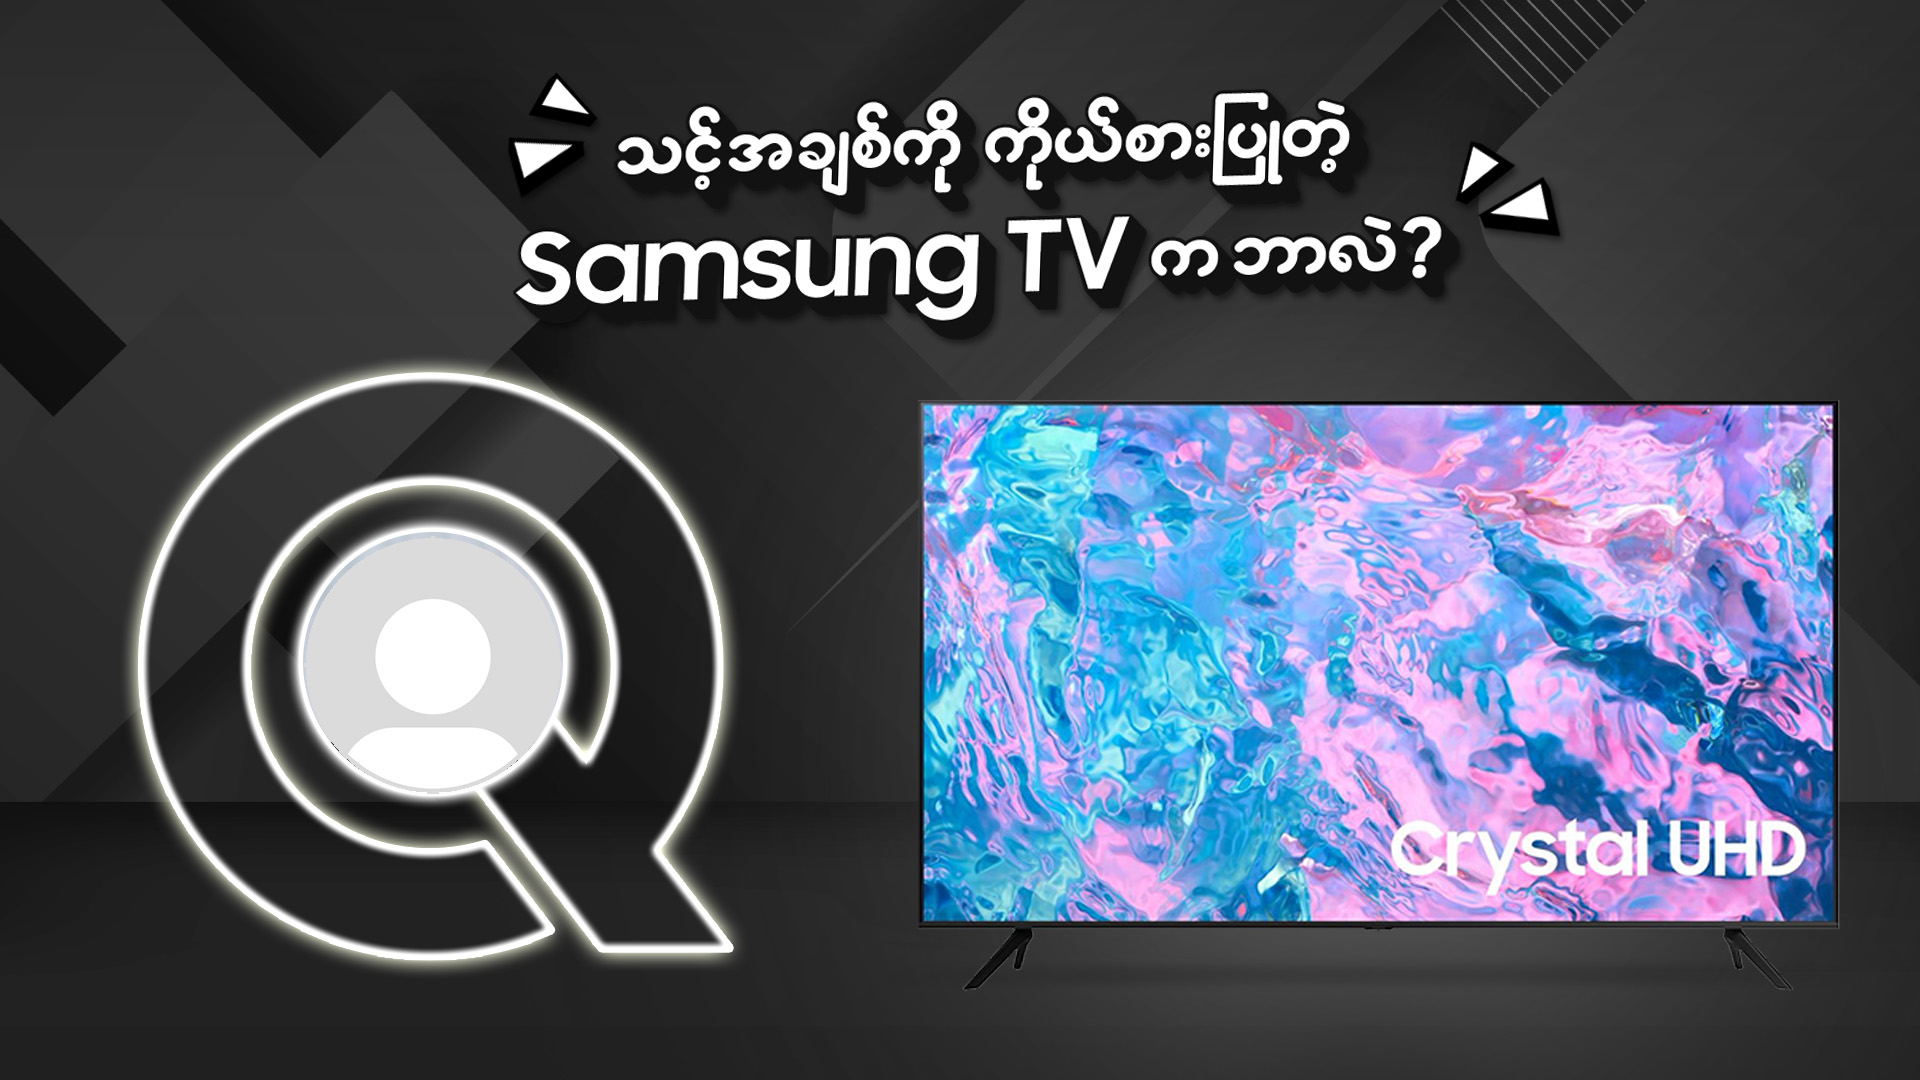
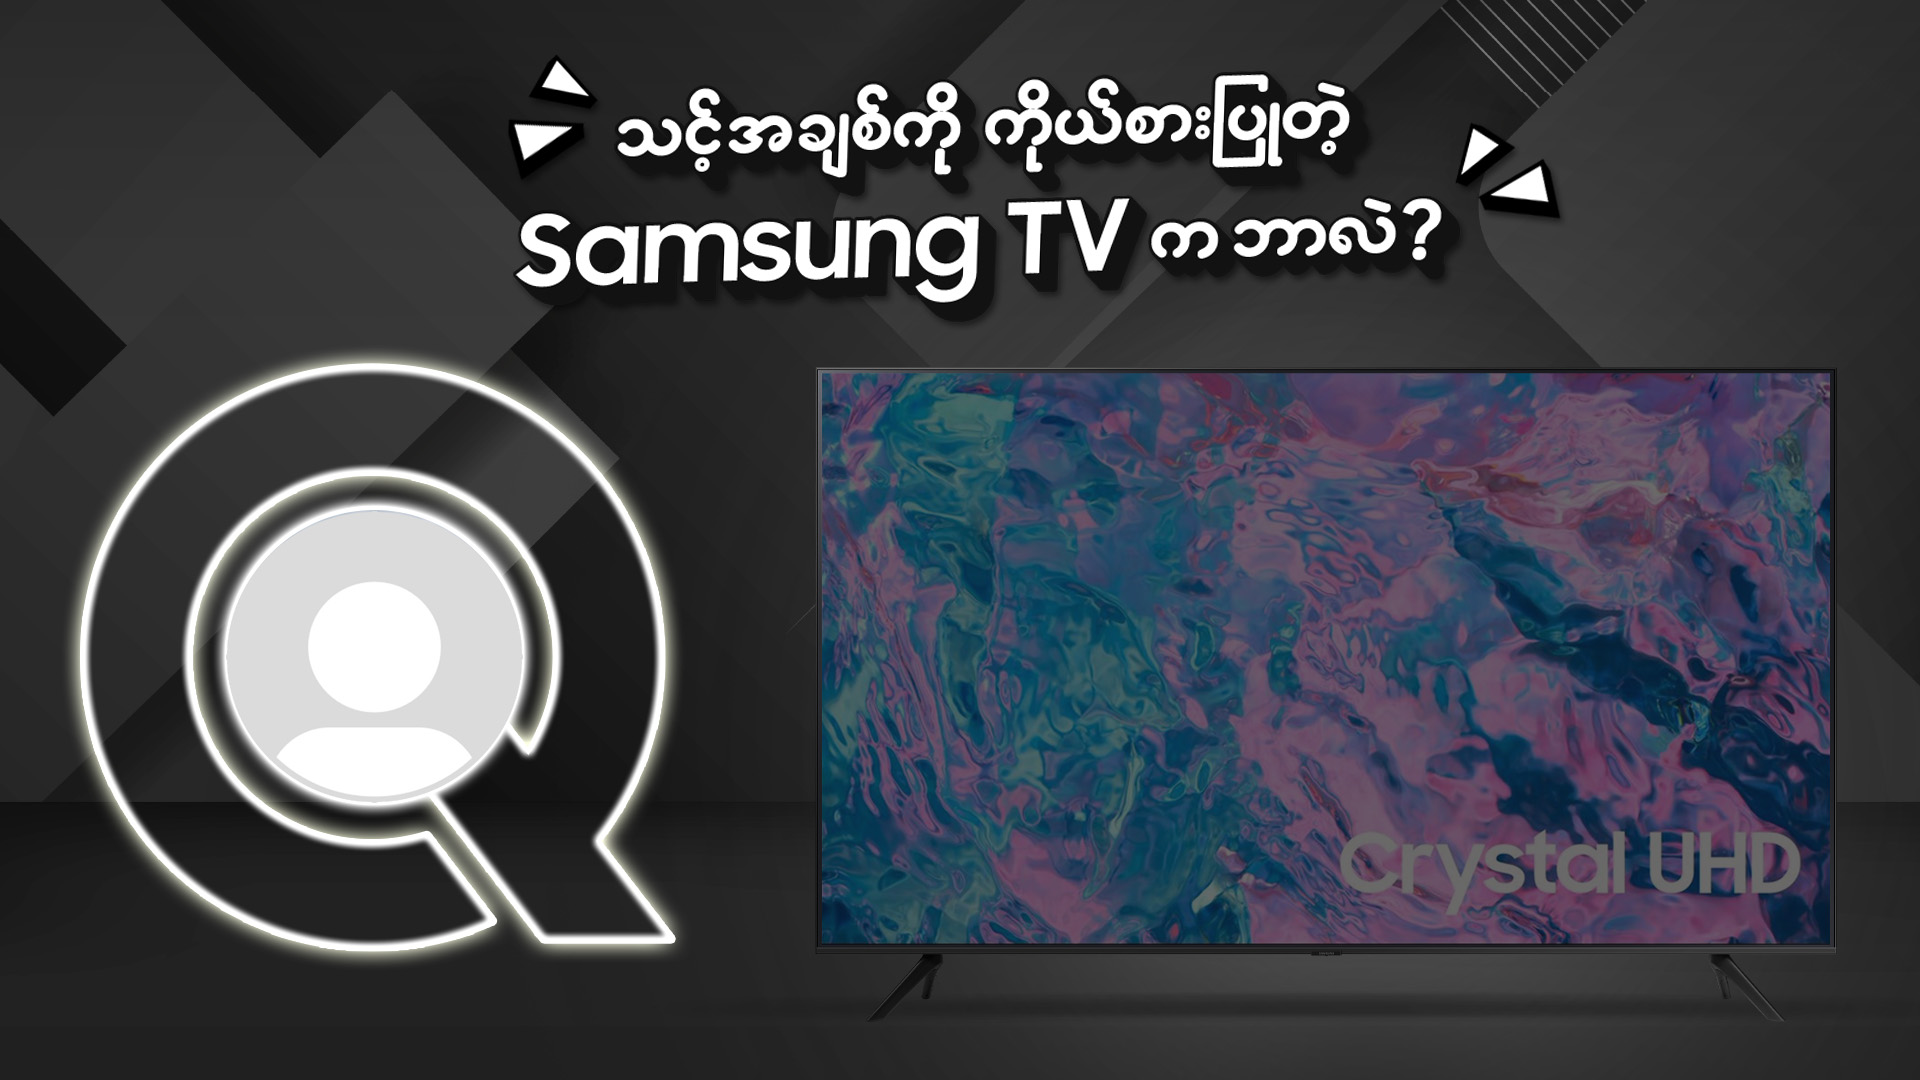
finish multiple tv

diff --git a/app/Http/Controllers/FacebookController.php b/app/Http/Controllers/FacebookController.php
@@ -170,7 +170,7 @@ class FacebookController extends Controller
             $avatarMask = $imageManager->make(public_path('samsung_support_photos/mask.png'));
 
             // // fit
-            $avatarImage->fit(255, 255);
+            $avatarImage->fit(292, 292);
             $avatarImage->mask($avatarMask, true);
 
             $data = config('samsung');
@@ -179,7 +179,7 @@ class FacebookController extends Controller
 
             $backgroundImage = $imageManager->make(public_path($randomData['tv_location']));
 
-            $backgroundImage->insert($avatarImage, 'top-left', 305, 535);
+            $backgroundImage->insert($avatarImage, 'top-left', 228, 512);
 
             $detector = new ZawgyiDetector();
 
@@ -209,33 +209,33 @@ class FacebookController extends Controller
                 'photo' => $imageName
             ]);
 
-            $backgroundImage->text($firstTitle, 950, 450, function ($font) use ($randomData) {
-                $font->file(public_path('Zawgyi-One.ttf'));
+            $backgroundImage->text($firstTitle, 850, 450, function ($font) use ($randomData) {
+                $font->file(public_path('MyanmarSangamZawgyi-Bold.ttf'));
                 $font->color($randomData['text_color']);
-                $font->size(38);
+                $font->size(50);
             });
 
-            $backgroundImage->text($secondTitle, 950, 510, function ($font) use ($randomData) {
-                $font->file(public_path('Zawgyi-One.ttf'));
+            $backgroundImage->text($secondTitle, 850, 510, function ($font) use ($randomData) {
+                $font->file(public_path('MyanmarSangamZawgyi-Bold.ttf'));
                 $font->color($randomData['text_color']);
-                $font->size(38);
+                $font->size(50);
             });
 
-            $backgroundImage->text($thirdTitle, 950, 570, function ($font) use ($randomData) {
-                $font->file(public_path('Zawgyi-One.ttf'));
+            $backgroundImage->text($thirdTitle, 850, 570, function ($font) use ($randomData) {
+                $font->file(public_path('MyanmarSangamZawgyi-Bold.ttf'));
                 $font->color($randomData['text_color']);
-                $font->size(38);
+                $font->size(50);
             });
 
-            $x = 950;
+            $x = 850;
             $y = 600;
 
             foreach (Arr::flatten($randomData['tv_sub_title']) as $eachText) {
                 $y += 60;
                 $backgroundImage->text(Rabbit::uni2zg($eachText), $x, $y, function ($font) use ($randomData) {
-                    $font->file(public_path('Zawgyi-One.ttf'));
+                    $font->file(public_path('MyanmarSangamZawgyi-Bold.ttf'));
                     $font->color($randomData['text_color']);
-                    $font->size(38);
+                    $font->size(50);
                 });
             }
 

diff --git a/config/samsung.php b/config/samsung.php
@@ -60,7 +60,7 @@ return [
         ]
     ],
     [
-        'text_color' => '#0a0a0a',
+        'text_color' => '#fafbfc',
         'tv_location' => '/samsung_support_photos/qled.jpg',
         'tv_name' => 'QLED',
         'tv_main_title' => 'Quantum Processor 4k, Motion accelertor',
@@ -74,7 +74,7 @@ return [
         ]
     ],
     [
-        'text_color' => '#0a0a0a',
+        'text_color' => '#fafbfc',
         'tv_location' => '/samsung_support_photos/qled.jpg',
         'tv_name' => 'QLED',
         'tv_main_title' => 'Quantum Processor 4k, Motion accelertor',
@@ -88,7 +88,7 @@ return [
         ]
     ],
     [
-        'text_color' => '#0a0a0a',
+        'text_color' => '#fafbfc',
         'tv_location' => '/samsung_support_photos/crystal_uhd.jpg',
         'tv_name' => 'Crystal UHD',
         'tv_main_title' => 'Crystal Clear, easy accessbile with laptop , Smart Hub',
@@ -102,7 +102,7 @@ return [
         ]
     ],
     [
-        'text_color' => '#0a0a0a',
+        'text_color' => '#fafbfc',
         'tv_location' => '/samsung_support_photos/crystal_uhd.jpg',
         'tv_name' => 'Crystal UHD',
         'tv_main_title' => 'Crystal Clear, easy accessbile with laptop , Smart Hub',
